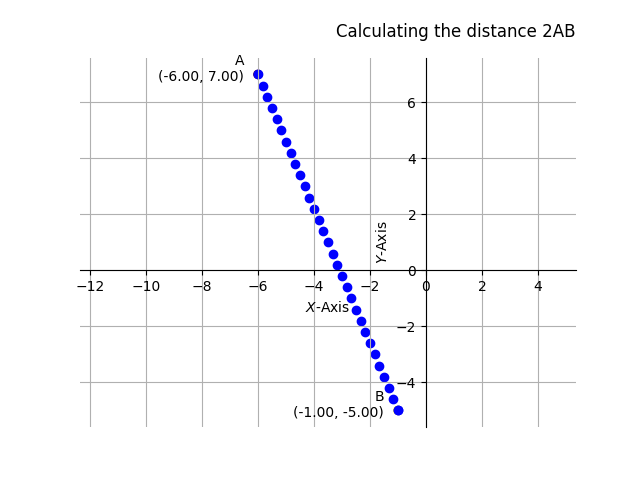
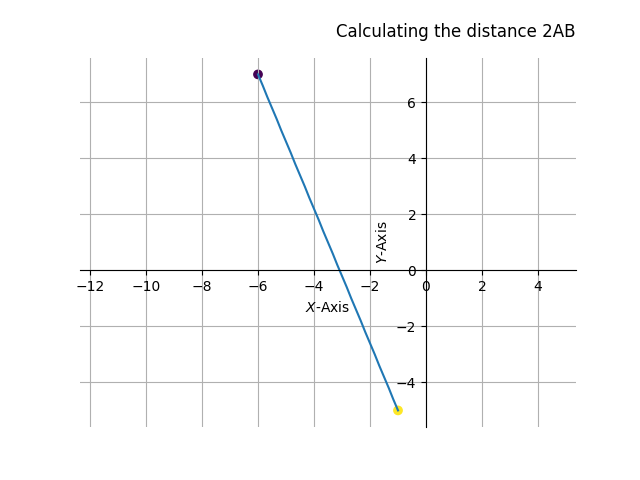
write wtvr

Changed region(s): [[0.3438, 0.125, 0.5312, 0.5625], [0.4688, 0.5625, 0.625, 0.875], [0.25, 0.125, 0.3125, 0.1875]]

diff --git a/1-1.9-28/codes/assignment1-1-9-28.py b/1-1.9-28/codes/assignment1-1-9-28.py
@@ -29,17 +29,22 @@ B = np.array(([x[31], y[31]])).reshape(-1,1)
 AB = np.vstack(([x, y]))
 colors = np.arange(1,3)
 #Labeling the coordinates
-quad_coords = np.block([A,B])
-plt.scatter(quad_coords[0,:], quad_coords[1,:], c=colors)
-plt.scatter(AB[0, :], AB[1, :], c = "blue")
+tri_coords = np.block([A,B])
+plt.scatter(tri_coords[0,:], tri_coords[1,:], c=colors)
+plt.plot(AB[0, :], AB[1, :], label='$AB$')
 vert_labels = ['A','B']
-for i, txt in enumerate(vert_labels):
-    #plt.annotate(txt, # this is the text
-    plt.annotate(f'{txt}\n({quad_coords[0,i]:.2f}, {quad_coords[1,i]:.2f})',
-                 (quad_coords[0,i], quad_coords[1,i]), # this is the point to label
-                 textcoords="offset points", # how to position the text
-                 xytext=(-10,-5), # distance from text to points (x,y)
-                 ha='right') # horizontal alignment can be left, right or center
+'''
+plt.annotate(f'A\n({tri_coords[0,0]:.2f}, {tri_coords[1,0]:.2f})',
+              (tri_coords[0,0], tri_coords[1,0]), # this is the point to label
+              textcoords="offset points", # how to position the text
+              xytext=(25,5), # distance from text to points (x,y)
+              ha='center') # horizontal alignment can be left, right or center
+plt.annotate(f'B\n({tri_coords[0,1]:.2f}, {tri_coords[1,1]:.2f})',
+              (tri_coords[0,1], tri_coords[1,1]), # this is the point to label
+              textcoords="offset points", # how to position the text
+              xytext=(25,5), # distance from text to points (x,y)
+              ha='center') # horizontal alignment can be left, right or center
+'''
 
 # use set_position
 ax = plt.gca()

diff --git a/1-1.6-22/codes/assignment1-1-6-22.py b/1-1.6-22/codes/assignment1-1-6-22.py
@@ -44,8 +44,8 @@ ax = fig.add_subplot(111, projection='3d')
 colors = np.arange(1, 4)  # Example colors
 tri_coords = np.block([A, B, C])  # Stack A, B, C vertically
 ax.scatter(tri_coords[0, :], tri_coords[1, :], tri_coords[2, :], c=colors)
-ax.scatter(BCmid[0, :], BCmid[1, :], BCmid[2, :], c = "black")
-ax.scatter(ACmid[0, :], ACmid[1, :], ACmid[2, :], c = "black")
+ax.plot(BCmid[0, :], BCmid[1, :], BCmid[2, :], label='$BC$')
+ax.plot(ACmid[0, :], ACmid[1, :], ACmid[2, :], label = '$AC$')
 vert_labels = ['A', 'B', 'C']
 
 for i, txt in enumerate(vert_labels):

diff --git a/1-1.6-19/codes/assignment1-1-6-19-valuegen.py b/1-1.6-19/codes/assignment1-1-6-19-valuegen.py
@@ -1,18 +1,10 @@
 import sympy as sp
-
-# Define the symbolic variable lambda
 λ = sp.symbols('λ')
 
-# Define the matrix A(λ)
 A = sp.Matrix([[λ, 1, 2], [1, λ, -1], [2, -1, λ]])
-
-# Calculate the determinant of A
 det_A = A.det()
 
-# Solve the equation det(A) = 0 for λ
 lambda_solutions = sp.solve(det_A, λ)
-
-# Convert the solutions to numpy format (numerical form)
 numeric_solutions = [sp.N(sol) for sol in lambda_solutions]
 
 # Print the numeric solutions using numpy's sqrt function format
